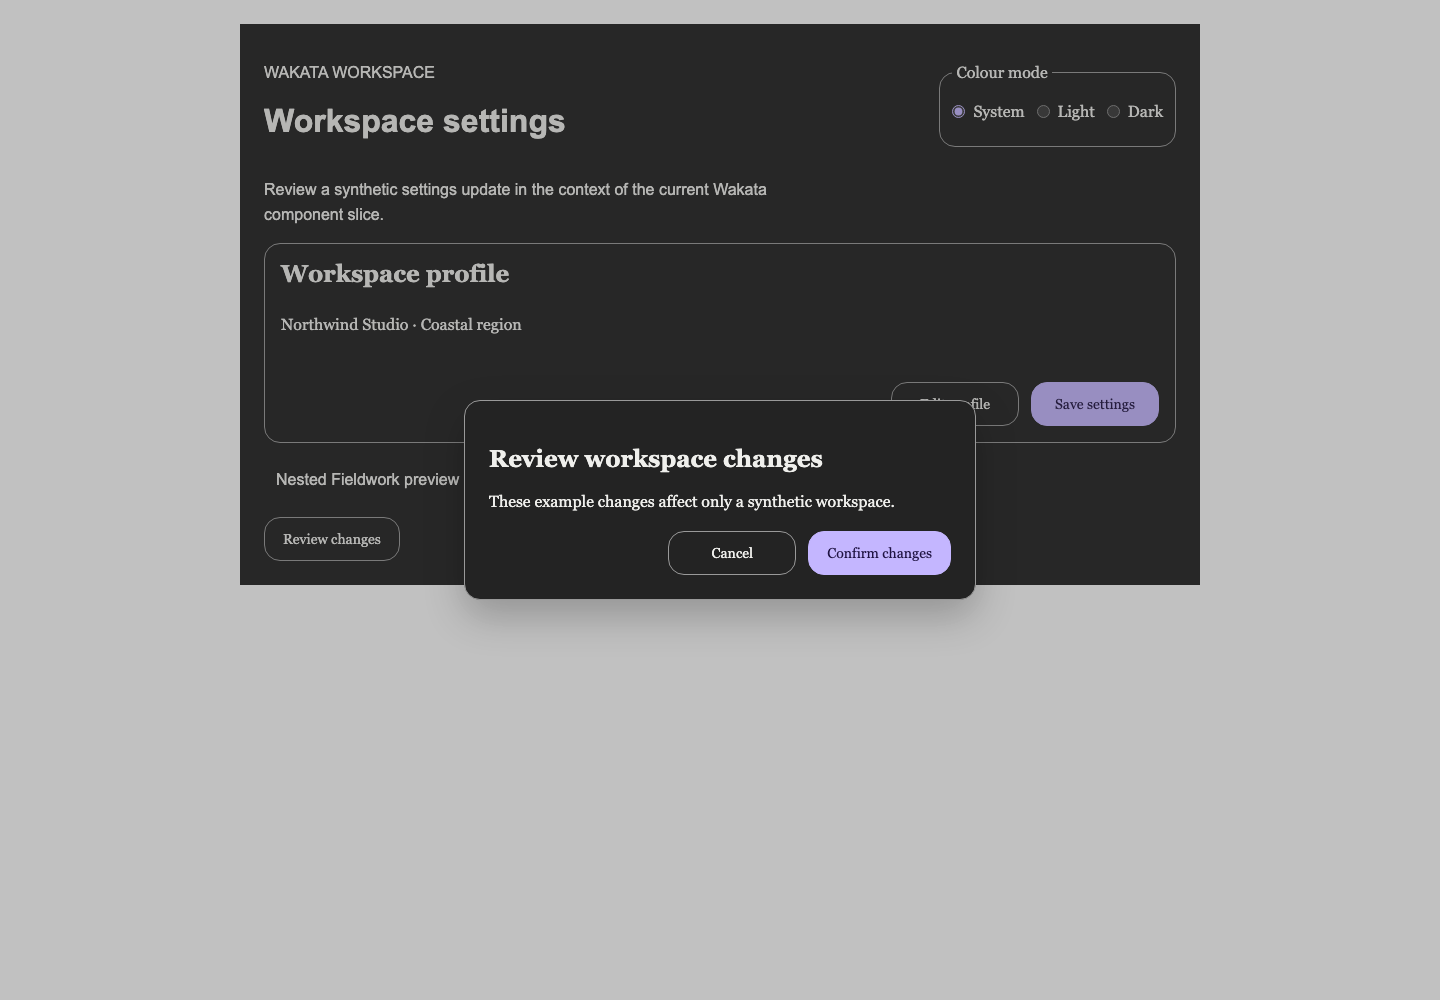
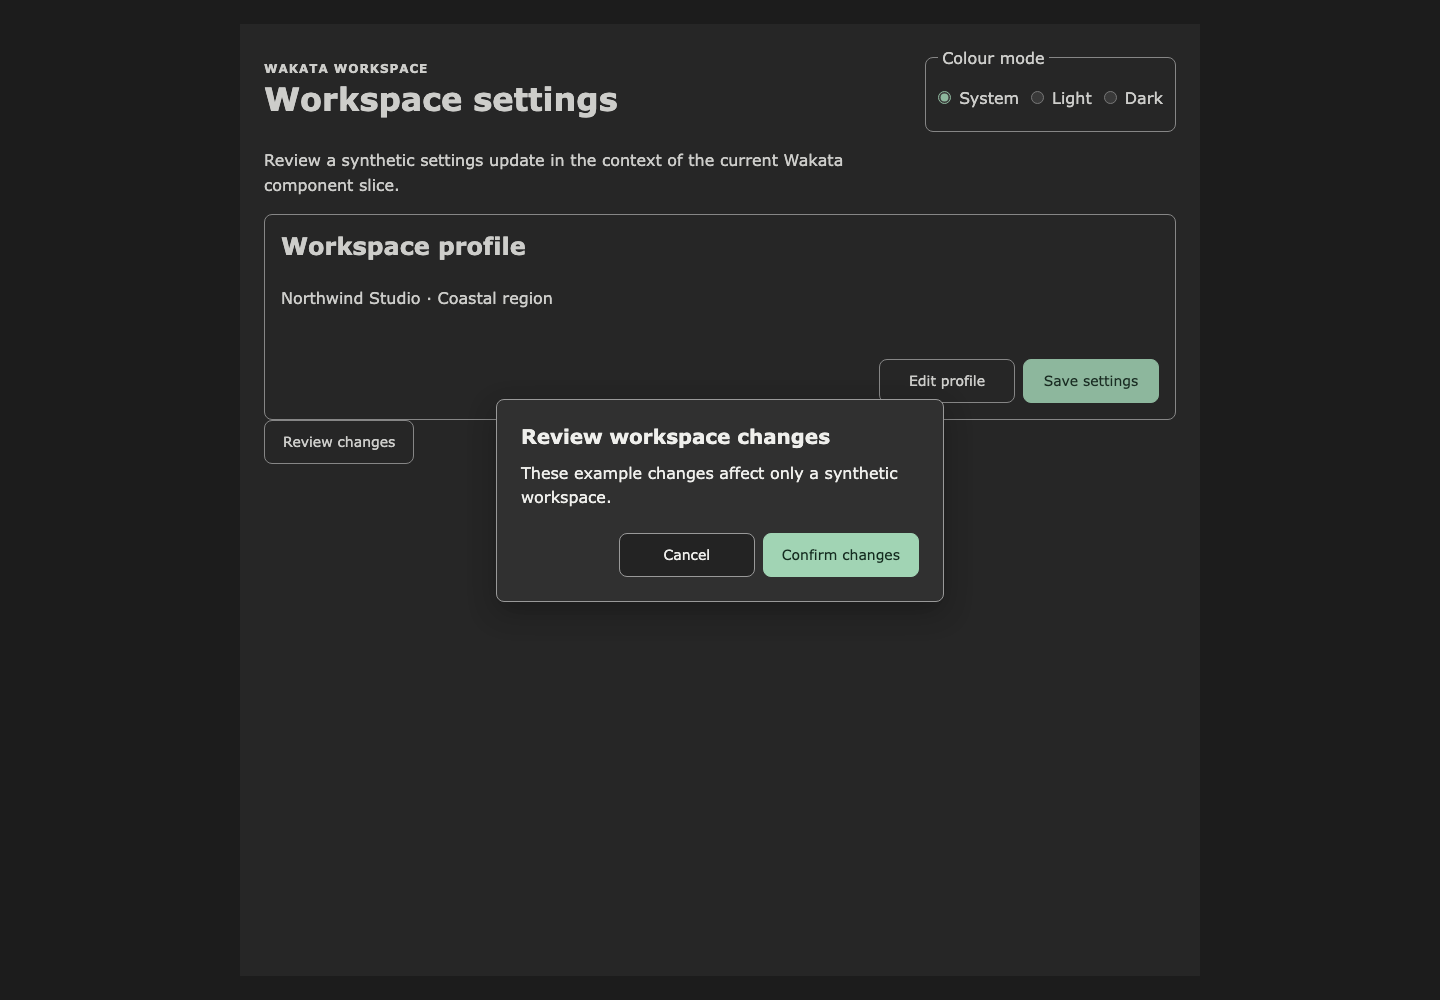
Refine Dialog layout and review captures

diff --git a/packages/ds/src/components/dialog/dialog.stories.ts b/packages/ds/src/components/dialog/dialog.stories.ts
@@ -30,16 +30,20 @@ const closeReview = (event: Event): void => {
 };
 
 const reviewStyles = `
-  .review-page { box-sizing:border-box; width:min(100%, 960px); margin:0 auto; padding:24px; color:var(--wk-text); background:var(--wk-surface); }
+  .review-page { box-sizing:border-box; width:min(100%, 960px); min-height:calc(100vh - 48px); margin:0 auto; padding:24px; color:var(--wk-text); background:var(--wk-surface); font-family:var(--wk-font); }
   .review-header { display:flex; align-items:center; justify-content:space-between; gap:16px; }
   .review-page h1, .review-page h2 { overflow-wrap:anywhere; }
+  .review-page h1 { margin:4px 0 0; font-size:clamp(1.5rem, 3vw, 2rem); line-height:1.2; }
+  .review-header p { margin:0; font-size:12px; font-weight:700; letter-spacing:.08em; }
   .review-summary { max-width:65ch; line-height:1.55; }
-  .review-actions { display:flex; flex-wrap:wrap; justify-content:flex-end; gap:12px; margin-block-start:20px; }
-  .review-actions > * { min-width:8rem; }
+  .review-actions { display:flex; flex-wrap:wrap; justify-content:flex-end; gap:8px; margin-block-start:24px; }
+  .review-actions > * { min-width:8.5rem; }
   @media(max-width:600px) {
+    .review-page { padding:20px; }
     .review-header { align-items:flex-start; flex-direction:column; }
-    .review-actions { justify-content:stretch; }
-    .review-actions > * { flex:1 1 8rem; }
+    [data-wk-dialog-content] .review-actions { flex-direction:column; }
+    [data-wk-dialog-content] .review-actions > * { width:100%; }
+    .review-page wk-card .review-actions > * { flex:1 1 8rem; }
   }
 `;
 
@@ -59,13 +63,7 @@ export const ReviewDialog: Story = {
     <style>
       ${reviewStyles}
     </style>
-    <main
-      class="review-page"
-      data-wk-theme="studio"
-      data-review-origin
-      @click=${closeReview}
-      style="--wk-font: Georgia, serif; background:var(--wk-surface);color:var(--wk-text)"
-    >
+    <main class="review-page" data-wk-theme="fieldwork" data-review-origin @click=${closeReview}>
       <header class="review-header">
         <div>
           <p>WAKATA WORKSPACE</p>
@@ -84,14 +82,6 @@ export const ReviewDialog: Story = {
           <wk-button variant="primary">Save settings</wk-button>
         </div>
       </wk-card>
-      <div
-        data-wk-theme="fieldwork"
-        data-wk-mode="dark"
-        data-nested-theme
-        style="padding:12px;background:var(--wk-surface);color:var(--wk-text)"
-      >
-        <p>Nested Fieldwork preview remains independent of the dialog origin.</p>
-      </div>
       <wk-dialog>
         <wk-button slot="invoker">Review changes</wk-button>
         <section
@@ -148,7 +138,7 @@ export const ReviewDialog: Story = {
     await waitForClosedContent(dialog, content);
     await expect(dialog.opened).toBe(false);
     await expect(content.hasAttribute('data-wk-dialog-content')).toBe(false);
-    root.dataset.wkTheme = 'studio';
+    root.dataset.wkTheme = 'fieldwork';
     root.dataset.wkWireframe = 'false';
     root.style.removeProperty('--wk-font');
     for (const label of ['Cancel', 'Confirm changes']) {
@@ -189,5 +179,6 @@ export const LongContentAndNarrowReflow: Story = {
     );
     await expect(getComputedStyle(content).padding).toBe('24px');
     await dialog.close();
+    dialog.dataset.longPlayComplete = 'true';
   },
 };

diff --git a/packages/ds/src/themes/dialog.css b/packages/ds/src/themes/dialog.css
@@ -1,8 +1,8 @@
 [data-wk-dialog-content] {
   box-sizing: border-box;
-  width: min(32rem, calc(100vw - 2rem));
-  max-height: calc(100vh - 2rem);
-  max-height: calc(100dvh - 2rem);
+  width: min(28rem, calc(100vw - 3rem));
+  max-height: calc(100vh - 3rem);
+  max-height: calc(100dvh - 3rem);
   overflow: auto;
   padding: 24px;
   border: 1px solid var(--wk-border, #999);
@@ -10,5 +10,23 @@
   background: var(--wk-surface, #fff);
   color: var(--wk-text, #222);
   font-family: var(--wk-font, Arial, Helvetica, sans-serif);
-  box-shadow: 0 16px 40px rgb(0 0 0 / 24%);
+  font-size: 16px;
+  line-height: 1.5;
+  box-shadow: 0 10px 28px rgb(0 0 0 / 16%);
+}
+
+[data-wk-dialog-content][data-wk-mode='dark'] {
+  background: color-mix(in srgb, var(--wk-surface, #232323) 94%, white);
+  box-shadow: 0 10px 28px rgb(0 0 0 / 28%);
+}
+
+[data-wk-dialog-content] > :is(h1, h2, h3) {
+  margin-block: 0 12px;
+  font-size: 1.25rem;
+  line-height: 1.25;
+  font-weight: 700;
+}
+
+[data-wk-dialog-content] > p {
+  margin-block: 0;
 }

diff --git a/packages/ds/src/components/dialog/wk-dialog.ts b/packages/ds/src/components/dialog/wk-dialog.ts
@@ -18,6 +18,36 @@ export class WkDialog extends LionDialog {
     :host {
       display: contents;
     }
+    dialog[data-overlay-outer-wrapper] > .overlays__backdrop--animation-in {
+      animation: wk-backdrop-fade-in 300ms;
+      opacity: 0.18;
+    }
+    dialog[data-overlay-outer-wrapper] > .overlays__backdrop--animation-out {
+      animation: wk-backdrop-fade-out 300ms;
+      opacity: 0;
+    }
+    @keyframes wk-backdrop-fade-in {
+      from {
+        opacity: 0;
+      }
+      to {
+        opacity: 0.18;
+      }
+    }
+    @keyframes wk-backdrop-fade-out {
+      from {
+        opacity: 0.18;
+      }
+      to {
+        opacity: 0;
+      }
+    }
+    @media (prefers-reduced-motion: reduce) {
+      dialog[data-overlay-outer-wrapper] > .overlays__backdrop--animation-in,
+      dialog[data-overlay-outer-wrapper] > .overlays__backdrop--animation-out {
+        animation-duration: 1ms;
+      }
+    }
   `;
 
   #contentRoot?: HTMLElement;

diff --git a/packages/ds/README.md b/packages/ds/README.md
@@ -151,11 +151,12 @@ The global Lion overlay carries the origin's effective theme, mode and
 wireframe attributes plus computed supported `--wk-*` tokens, including
 typography and consumer overrides. These refresh while open when an origin
 ancestor's relevant attributes change or when the System color preference
-changes. The content root uses 24px padding, a 32rem maximum width,
-viewport-constrained scrolling, the theme surface/border/radius and a modal
-shadow; wireframe changes the theme radius without changing geometry. The
-backdrop keeps Lion's modal dimming. No arbitrary overlay configuration API
-is exposed.
+changes. The content root uses 24px padding, a 28rem maximum width, 24px
+viewport gutters and viewport-constrained scrolling. It follows the theme
+surface/border/radius with a restrained modal shadow; dark mode lifts the
+panel surface slightly. Wireframe changes the theme radius without changing
+geometry. The backdrop uses a lighter dim than Lion's default. No arbitrary
+overlay configuration API is exposed.
 
 `examples/request-review.html` is a synthetic phase-1 request/review fixture
 (Card, Form, Text Field, Select, Button, Dialog, Mode Switch). Run it with
@@ -169,9 +170,9 @@ untested), no real-device, React or Angular coverage; this is not gate completio
 
 `examples/dialog.html` is a synthetic runnable fixture. Storybook's
 `Components/Dialog / Review Dialog` combines a real Wakata Button and Card
-with a nested theme and a named/described review modal. Chromium browser tests
+with a named/described review modal in the Fieldwork theme. Chromium browser tests
 verify that Cancel and Confirm changes only close this synthetic example;
-neither performs a business action. Review screenshots use Studio typography,
+neither performs a business action. Review screenshots use Fieldwork typography,
 while the story separately checks a live typography override.
 Chromium browser tests
 cover repeated lifecycle, keyboard containment, Escape/backdrop behavior,
